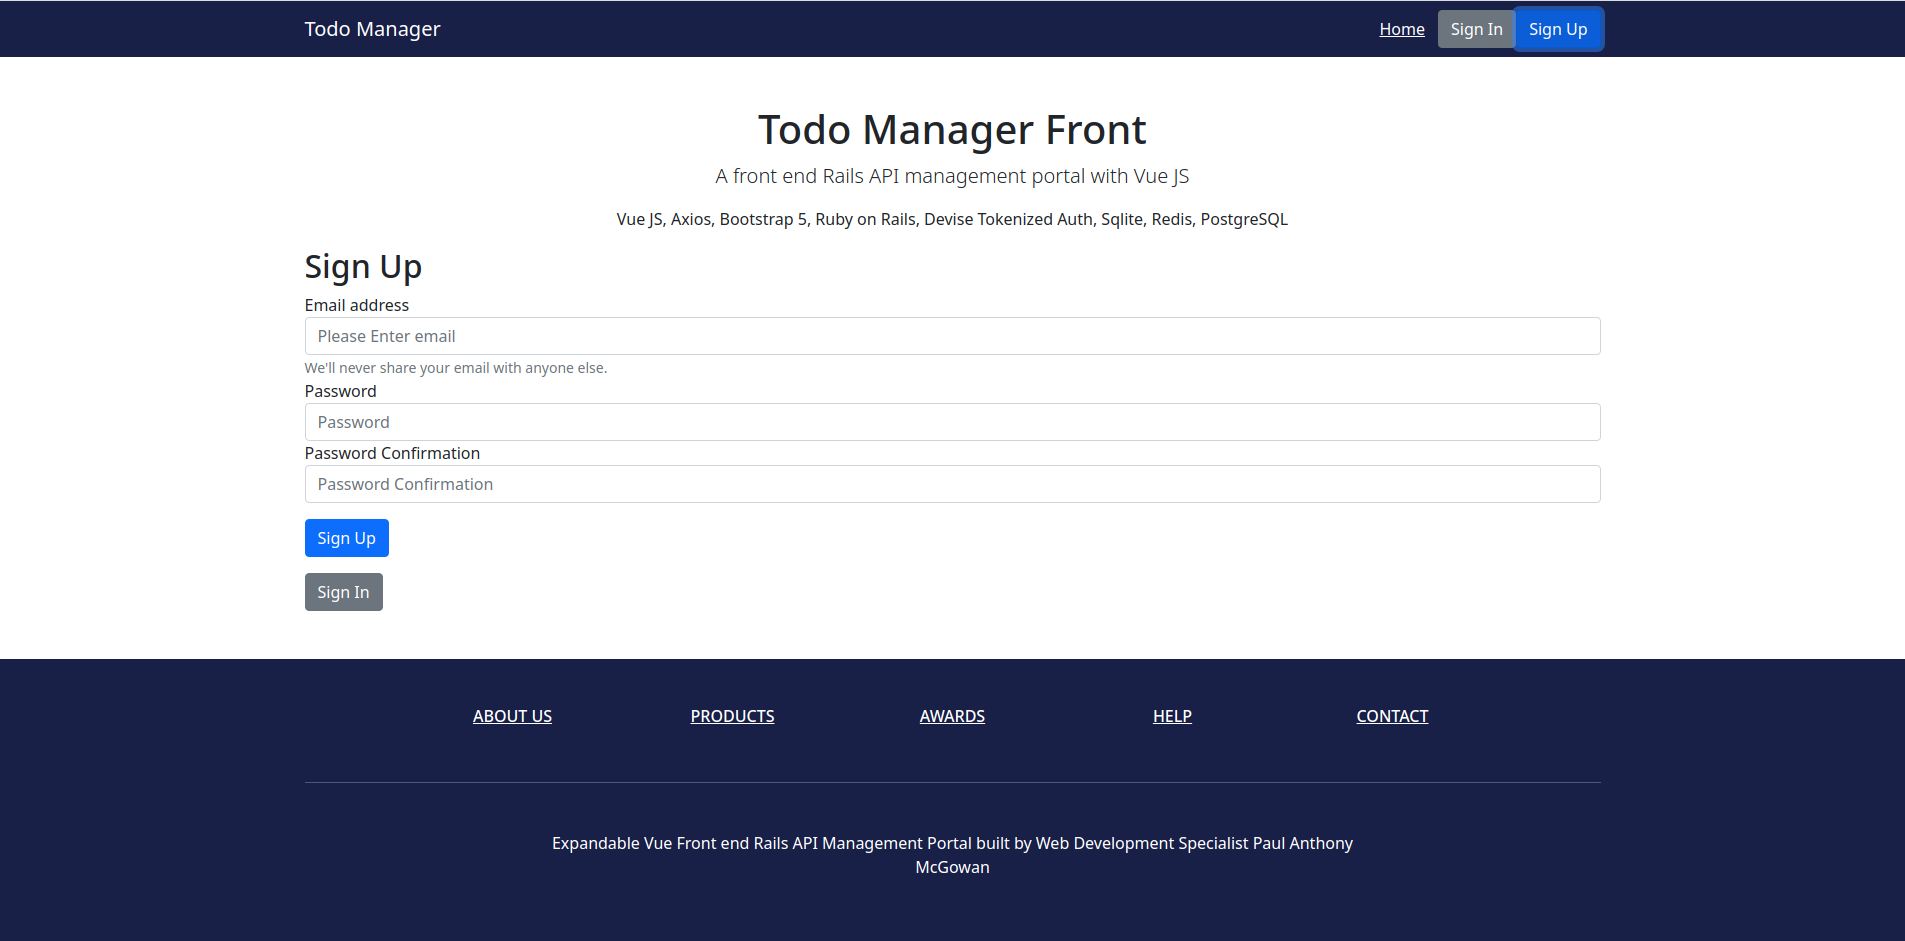
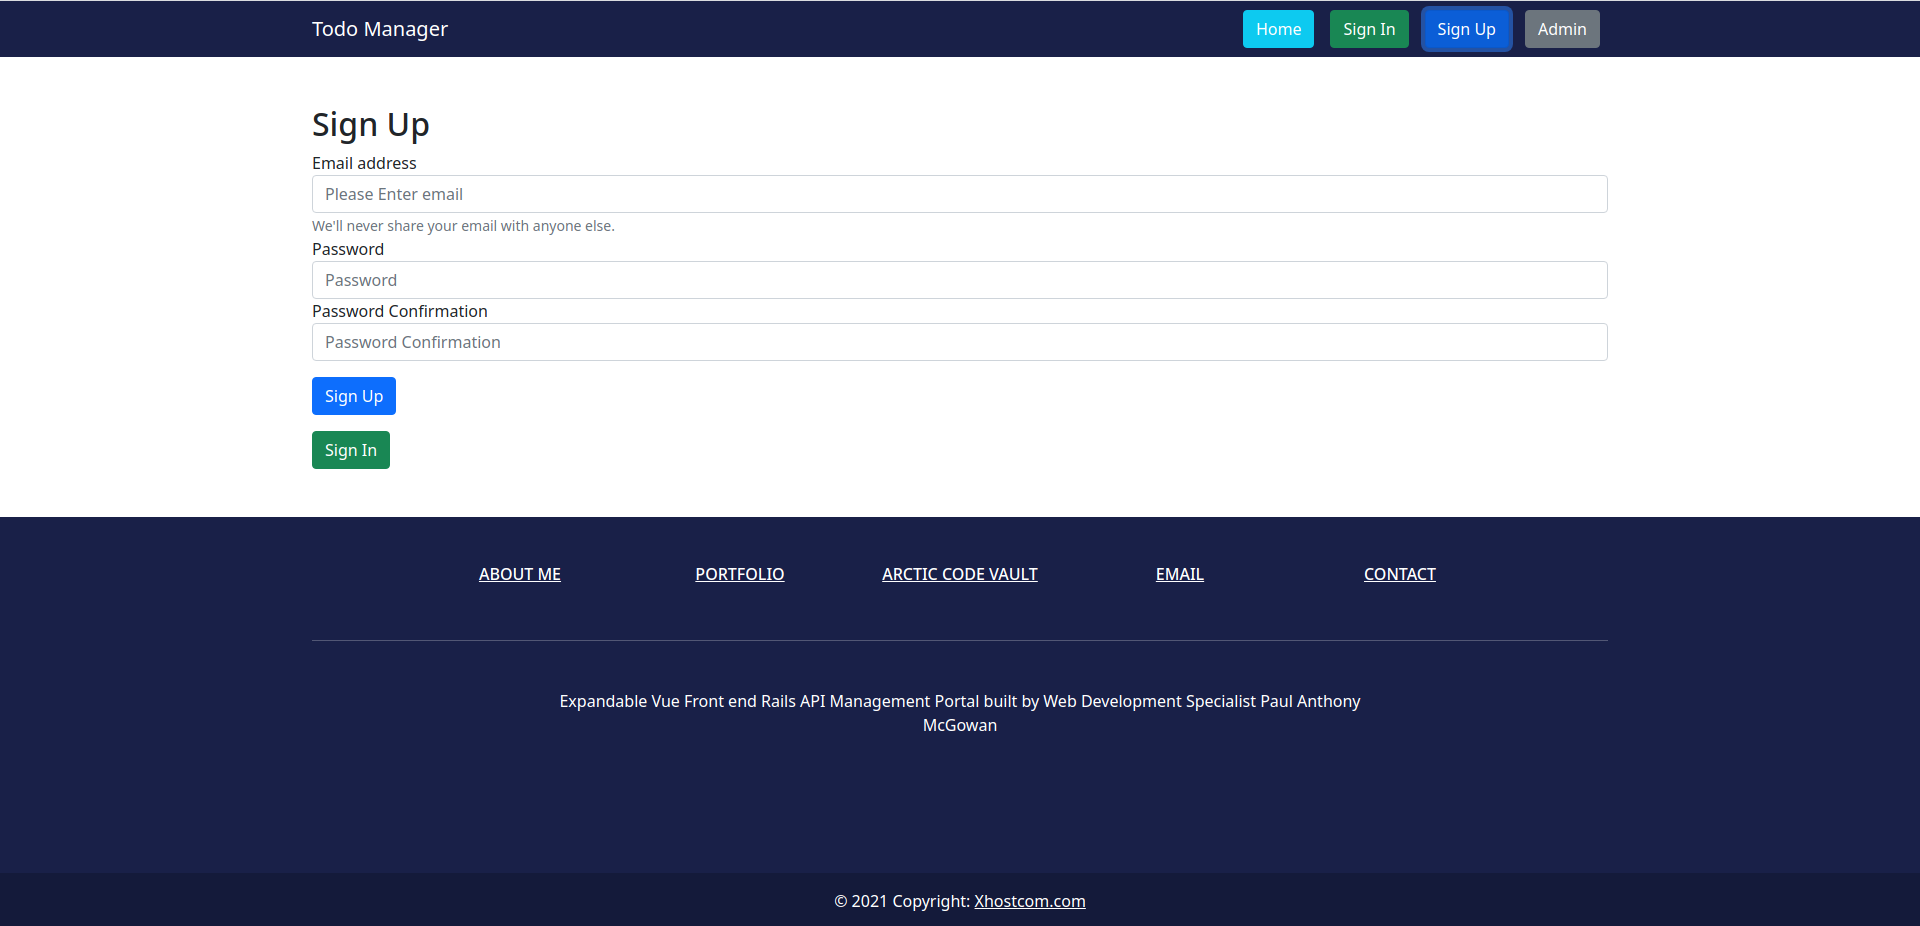
Components

diff --git a/todo-manager/src/components/baseHeader.vue b/todo-manager/src/components/baseHeader.vue
@@ -8,9 +8,10 @@
                 <button class="navbar-toggler" type="button" data-bs-toggle="collapse" data-bs-target="#navbarSupportedContent" aria-controls="navbarSupportedContent" aria-expanded="false" aria-label="Toggle navigation"><span class="navbar-toggler-icon"></span></button>
                 <div class="collapse navbar-collapse" id="navbarSupportedContent">
                     <ul class="navbar-nav ms-auto mb-2 mb-lg-0">
-                        <li class="nav-item"><router-link to="/" class="btn btn-link">Home</router-link></li>
-                         <li class="nav-item"><router-link to="/signin" class="btn btn-secondary">Sign In</router-link></li>
-                        <li class="nav-item"><router-link to="/signup" class="btn btn-primary">Sign Up</router-link></li>
+                        <li class="nav-item mx-2"><router-link to="/" class="btn btn-info">Home</router-link></li>
+                         <li class="nav-item mx-2"><router-link to="/signin" class="btn btn-success">Sign In</router-link></li>
+                        <li class="nav-item mx-2"><router-link to="/signup" class="btn btn-primary">Sign Up</router-link></li>
+                         <li class="nav-item mx-2"><router-link to="/admin" class="btn btn-secondary">Admin</router-link></li>
                    </ul>
                 </div>
             </div>

diff --git a/todo-manager/src/components/Admin.vue b/todo-manager/src/components/Admin.vue
@@ -1,0 +1,21 @@
+<template>
+ <div class="container mt-5">
+   <h2>Admin</h2>
+    <form @submit.prevent="signin()">
+  <div class="form-group">
+    <div class="alert alert-danger" v-if="error">{{ error}}</div>
+    <label for="InputEmail1">Email address</label>
+    <input type="email" v-model="email" class="form-control" id="email" aria-describedby="emailHelp" placeholder="Please Enter email">
+    <small id="emailHelp" class="form-text text-muted">We'll never share your email with anyone else.</small>
+  </div>
+  <div class="form-group">
+    <label for="password">Password</label>
+    <input type="password" v-model="password" class="form-control" id="password" placeholder="Password">
+  </div>
+  <button type="submit" class="btn btn-success mt-3">Sign In</button>
+  <div class="mt-3">
+  <router-link to="/signup" class="btn btn-primary">Sign Up</router-link>
+  </div>
+</form>
+</div>
+</template>

diff --git a/todo-manager/src/router/index.js b/todo-manager/src/router/index.js
@@ -3,6 +3,7 @@ import Router from 'vue-router'
 import Home from '@/Home'
 import Signin from '@/components/Signin'
 import Signup from '@/components/Signup'
+import Admin from '@/components/Admin'
 
 
 Vue.use(Router)
@@ -23,6 +24,11 @@ export default new Router({
       path: '/signup',
       name: 'Signup',
       component: Signup
+    },
+    {
+      path: '/admin',
+      name: 'Admin',
+      component: Admin
     }
   ]
 })

diff --git a/todo-manager/src/components/Signin.vue b/todo-manager/src/components/Signin.vue
@@ -12,7 +12,7 @@
     <label for="password">Password</label>
     <input type="password" v-model="password" class="form-control" id="password" placeholder="Password">
   </div>
-  <button type="submit" class="btn btn-secondary mt-3">Sign In</button>
+  <button type="submit" class="btn btn-success mt-3">Sign In</button>
   <div class="mt-3">
   <router-link to="/signup" class="btn btn-primary">Sign Up</router-link>
   </div>

diff --git a/todo-manager/src/components/Signup.vue b/todo-manager/src/components/Signup.vue
@@ -19,7 +19,7 @@
   </div>
   <button type="submit" class="btn btn-primary mt-3">Sign Up</button>
   <div class="mt-3">
-  <router-link to="/" class="btn btn-secondary">Sign In</router-link>
+  <router-link to="/" class="btn btn-success">Sign In</router-link>
   </div>
 </form>
 </div>
